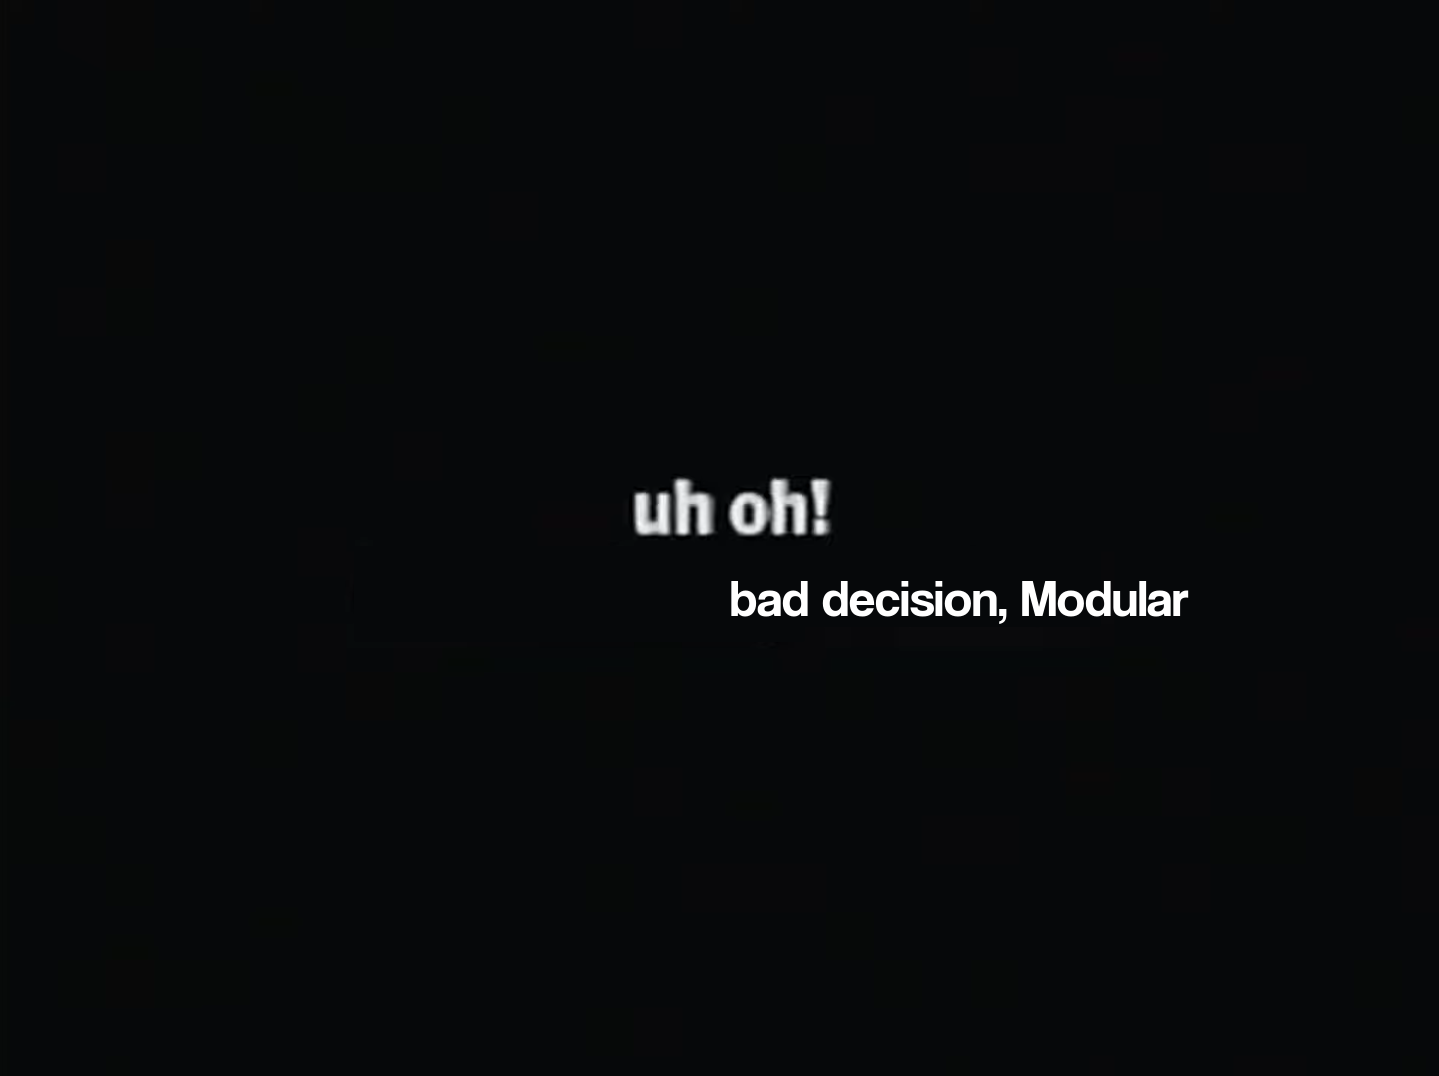
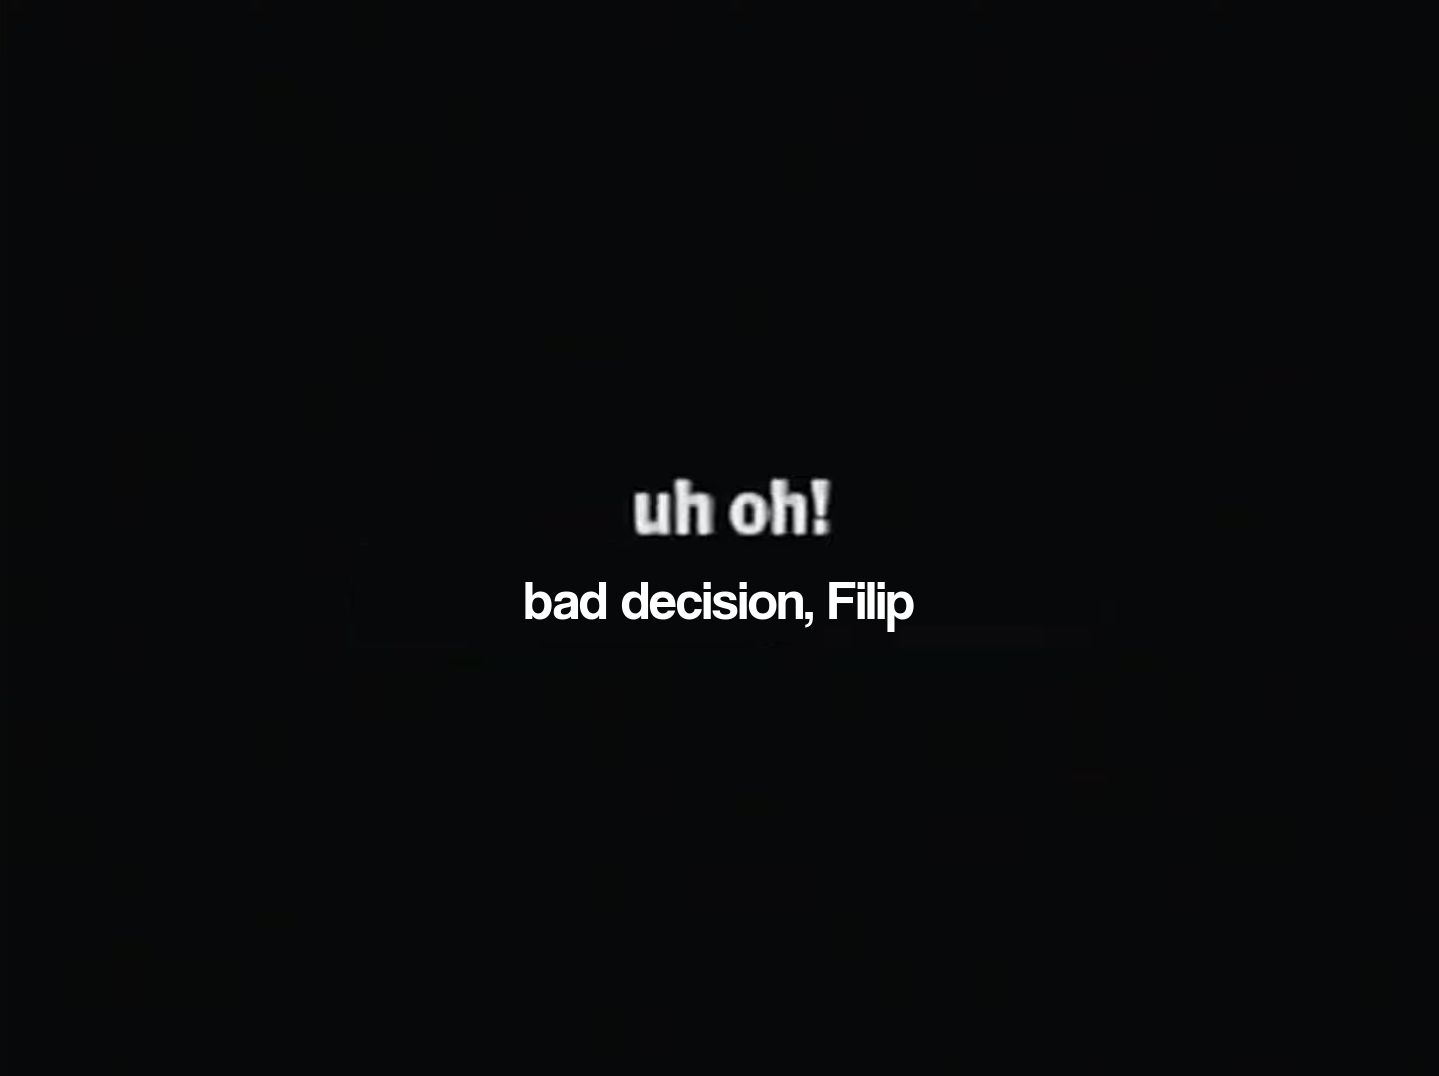
fixing text length

Changed region(s): [[0.3669, 0.5214, 0.8256, 0.5827]]

diff --git a/Image Editor/main.py b/Image Editor/main.py
@@ -1,27 +1,45 @@
-# import libraries
-# from tkinter import * 
+# imports
 import tkinter as tk
 import os
+from turtle import width
 from PIL import ImageFont
 from PIL import Image
 from PIL import ImageDraw
+# path of py file declaration
 __location__ = os.path.realpath(os.path.join(os.getcwd(), os.path.dirname(__file__)))
+
+# window config
 win = tk.Tk()
+win.title("Mandela Catalogue Image Editor")
+win.iconbitmap("")
+
+# config of canvas
 betterWin1 = tk.Canvas(win, width=400, height=300)
 betterWin1.pack()
+
+# some things in window
+label1 = tk.Label(win, text="Type your name:")
+label1.config(font=("helvetica", 10))
+betterWin1.create_window(200, 120, window=label1)
 entry1 = tk.Entry (win)
 betterWin1.create_window(200, 140, window=entry1)
-entry2 = tk.Entry (win)
-betterWin1.create_window(200, 160, window=entry2)
+
+# function of image editing
 def ImageEditing ():
-    pathImg = entry1.get()
-    name = entry2.get()
+    name = entry1.get()
     img = Image.open(os.path.join(__location__, "edit_img.png"))
-    ManCatFont = ImageFont.truetype(os.path.join(__location__, "coolvetica rg.ttf"), 52)
-    ImageDraw.Draw(img).text((730, 565), "bad decision, " + name, font=ManCatFont)
+    ManCatFont = ImageFont.truetype(os.path.join(__location__, "coolvetica rg.ttf"), 55)
+    text = "bad decision, " + name
+    center = ImageDraw.Draw(img).textlength(text, font=ManCatFont)
+    ImageDraw.Draw(img).text(((1439-center)/2, 565), text, font=ManCatFont)
     img = img.save("final.png")
+    betterWin2 = tk.Toplevel(tk.Canvas(win, width=400, height=300))
+
+# button config
 buttonSubmit = tk.Button(text='Submit', command=ImageEditing)
-betterWin1.create_window(200, 180, window=buttonSubmit)
+betterWin1.create_window(200, 170, window=buttonSubmit)
+
+# looping window
 win.mainloop()
 
 '''
